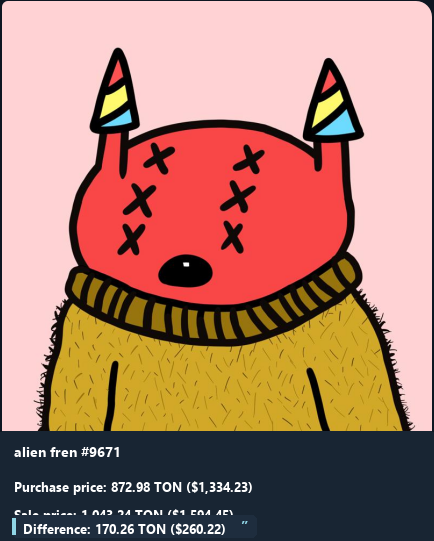
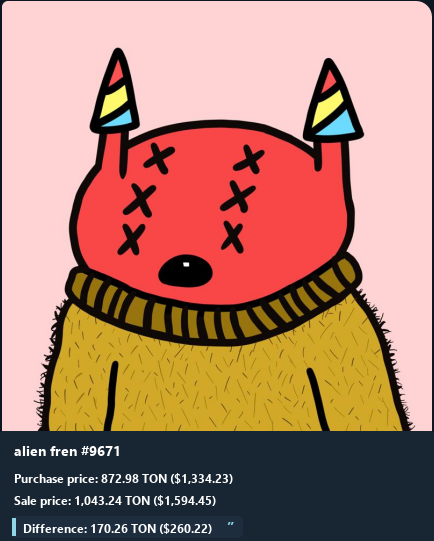
Fix EN dark cards so Sale price stays visible; TON/USD only.

Changed region(s): [[0.03, 0.8281, 0.5991, 1.0]]

diff --git a/backend/scripts/make_en_profit_images.py b/backend/scripts/make_en_profit_images.py
@@ -21,12 +21,12 @@ SPECS = [
         "diff": ("265.1879", "405.30"),
         "theme": "dark",
         "pad_x": 19,
-        "title_dy": 9,
-        "gap_title": 20,
-        "gap_lines": 10,
-        "gap_before_diff": 12,
-        "fs_title": 15,
-        "fs_body": 13,
+        "title_dy": 8,
+        "gap_title": 14,
+        "gap_lines": 6,
+        "gap_before_diff": 8,
+        "fs_title": 14,
+        "fs_body": 12,
     },
     {
         "file": "profits2.jpg",
@@ -54,11 +54,11 @@ SPECS = [
         "theme": "dark",
         "pad_x": 15,
         "title_dy": 8,
-        "gap_title": 20,
-        "gap_lines": 10,
-        "gap_before_diff": 12,
+        "gap_title": 14,
+        "gap_lines": 6,
+        "gap_before_diff": 8,
         "fs_title": 14,
-        "fs_body": 13,
+        "fs_body": 12,
     },
     {
         "file": "profits4.png",
@@ -69,12 +69,12 @@ SPECS = [
         "diff": ("170.26", "260.22"),
         "theme": "dark",
         "pad_x": 14,
-        "title_dy": 9,
-        "gap_title": 20,
-        "gap_lines": 10,
-        "gap_before_diff": 12,
+        "title_dy": 8,
+        "gap_title": 14,
+        "gap_lines": 6,
+        "gap_before_diff": 8,
         "fs_title": 14,
-        "fs_body": 13,
+        "fs_body": 12,
     },
 ]
 
@@ -163,18 +163,24 @@ def render(spec: dict) -> str:
     box_w = min(w - box_x - 8, tw + pad_x * 2 + bar_w + 18)
     box_h = th + pad_y * 2
 
-    # Keep quote fully inside original canvas (same size as RU card).
-    if y + box_h > h - 4:
-        y = max(panel_y + 8, h - 4 - box_h)
+    # Keep quote inside canvas; never move it up over previous lines.
+    if y + box_h > h - 2:
+        pad_y = max(2, h - 2 - y - th)
+        box_h = th + pad_y * 2
+    if y + box_h > h:
+        box_h = max(th + 2, h - y)
 
     draw.rounded_rectangle(
-        (box_x, y, box_x + box_w, y + box_h),
+        (box_x, y, box_x + box_w, min(y + box_h, h - 1)),
         radius=5,
         fill=quote_fill + (255,),
     )
-    draw.rectangle((box_x, y + 3, box_x + bar_w, y + box_h - 3), fill=accent + (255,))
+    draw.rectangle(
+        (box_x, y + 2, box_x + bar_w, min(y + box_h, h - 1) - 2),
+        fill=accent + (255,),
+    )
     draw.text(
-        (box_x + bar_w + pad_x - 2, y + pad_y - 1),
+        (box_x + bar_w + pad_x - 2, y + max(1, pad_y - 1)),
         diff,
         fill=text_color + (255,),
         font=font_body,
